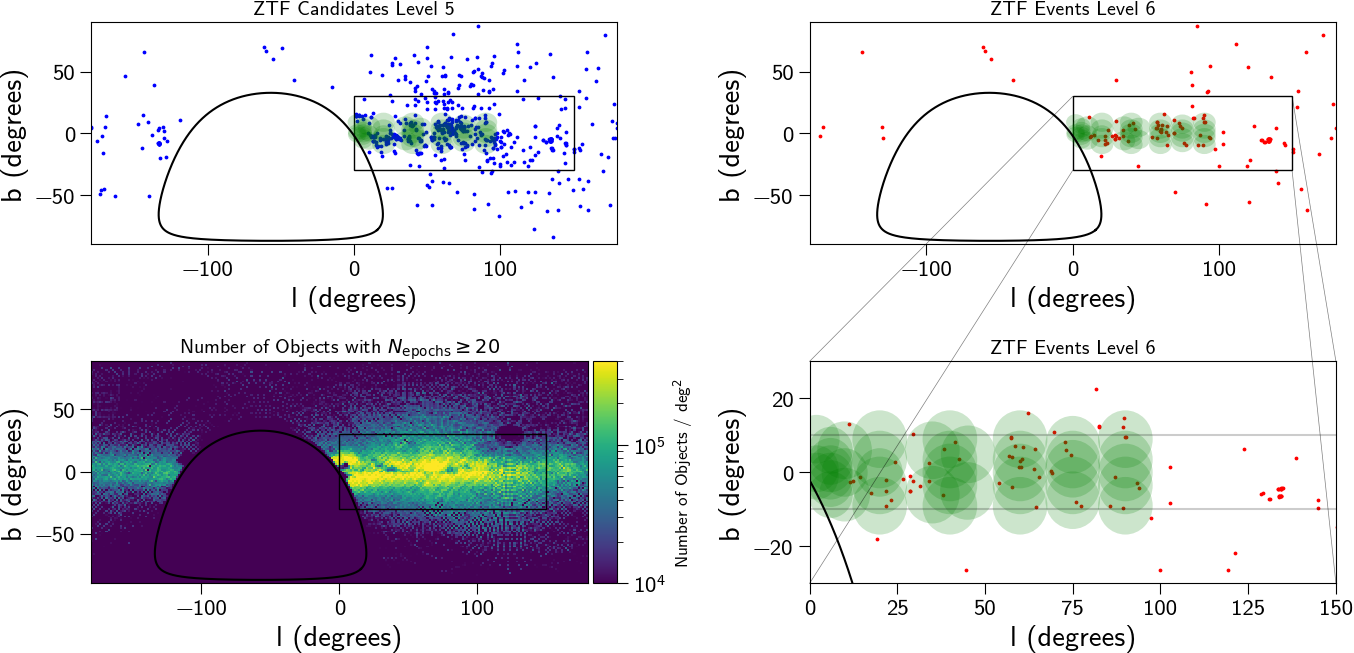
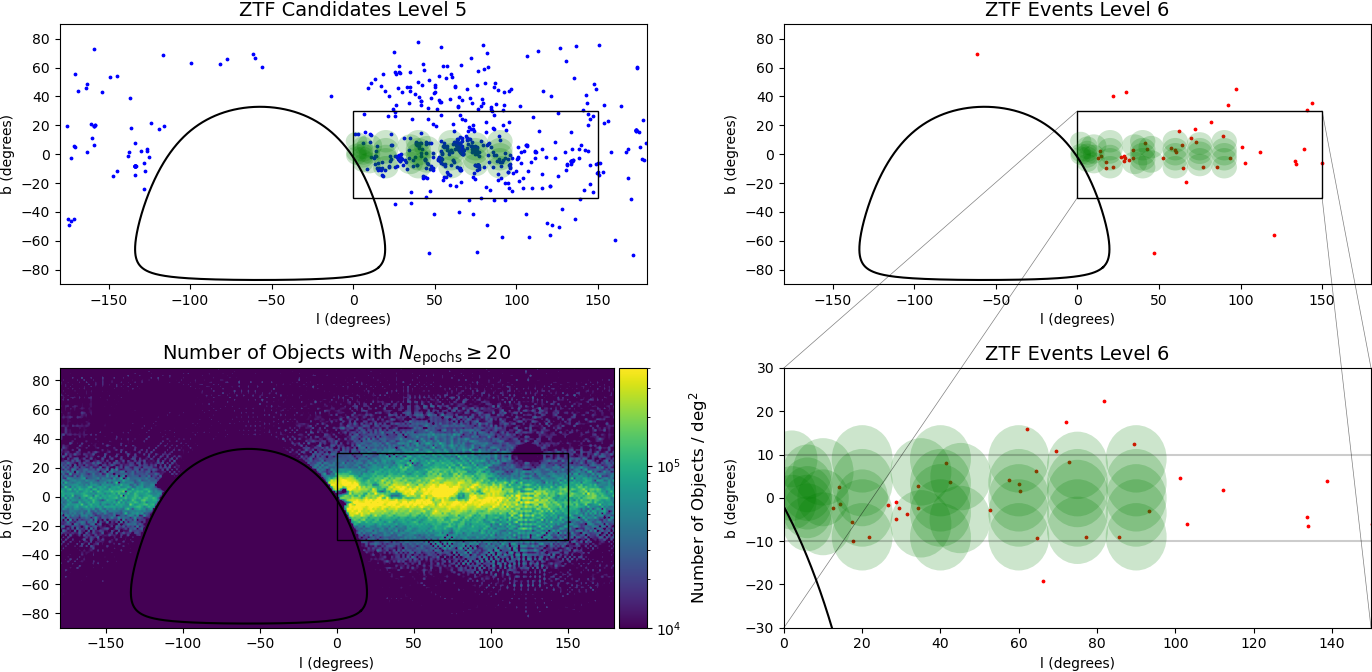
updates to perlmutter and catflag

diff --git a/puzle/cands.py b/puzle/cands.py
@@ -14,7 +14,7 @@ from microlens.jlu.model import PSPL_Phot_Par_Param1
 
 from puzle.stats import calculate_eta, average_xy_on_round_x
 from puzle.models import CandidateLevel2, CandidateLevel3, CandidateLevel4, Source
-from puzle.utils import return_figures_dir, return_DR5_dir
+from puzle.utils import return_figures_dir, return_DR5_dir, MJD_start, MJD_finish
 from puzle import db
 
 #import pdb
@@ -264,27 +264,32 @@ def return_cands_eta_resdiual_arrs():
     return eta_residual_minmax_arr, eta_residual_opt_arr
 
 
-def return_level3_cut_filters():
-    filter0 = CandidateLevel3.tE_best != 0
-    filter1 = CandidateLevel3.chi_squared_ulens_best / CandidateLevel3.num_days_best <= 4.805450553176206
-    filter2 = CandidateLevel3.delta_hmjd_outside_2tE_best >= 2 * CandidateLevel3.tE_best
-    filter3 = CandidateLevel3.chi_squared_flat_outside_2tE_best / CandidateLevel3.num_days_outside_2tE_best <= 3.327056268161699
-    filter4 = func.sqrt(func.pow(CandidateLevel3.piE_E_best, 2.) +
+def return_level3_cut_filters(ongoing_cut = False):
+    filter0 = CandidateLevel3.idx_best != -99 #at least one object with N_nights with catflat = 0 > 50
+    filter1 = CandidateLevel3.tE_best != 0 #successful 7-parameter fit
+    filter2 = CandidateLevel3.chi_squared_ulens_best / CandidateLevel3.num_days_best <= 4.805450553176206
+    filter3 = CandidateLevel3.delta_hmjd_outside_2tE_best >= 2 * CandidateLevel3.tE_best
+    filter4 = CandidateLevel3.chi_squared_flat_outside_2tE_best / CandidateLevel3.num_days_outside_2tE_best <= 3.327056268161699
+    filter5 = func.sqrt(func.pow(CandidateLevel3.piE_E_best, 2.) +
                         func.pow(CandidateLevel3.piE_N_best, 2.)) <= 1.4482240516735567
-    filter5 = CandidateLevel3.t0_best - CandidateLevel3.tE_best >= 58194.0
+    filter6 = CandidateLevel3.t0_best - CandidateLevel3.tE_best >= MJD_start
+    if ongoing_cut == True:
+        filter7 = CandidateLevel3.t0_best + CandidateLevel3.tE_best <= MJD_finish
+    else:
+        filter7 = filter6
     # filter6 = CandidateLevel3.tE_best <= 927.7536173683764
-    return filter0, filter1, filter2, filter3, filter4, filter5
+    return filter0, filter1, filter2, filter3, filter4, filter5, filter6, filter7
 
 
-def apply_level3_cuts_to_query(query):
-    filter0, filter1, filter2, filter3, filter4, filter5 = return_level3_cut_filters()
+def apply_level3_cuts_to_query(query, ongoing_cut = False):
+    filter0, filter1, filter2, filter3, filter4, filter5, filter6, filter7  = return_level3_cut_filters(ongoing_cut)
     query = query.filter(filter0, filter1, filter2,
-                         filter3, filter4, filter5)
+                         filter3, filter4, filter5, filter6, filter7)
     return query
 
 
-def print_level3_cuts():
-    filter0, filter1, filter2, filter3, filter4, filter5 = return_level3_cut_filters()
+def print_level3_cuts(ongoing_cut = False):
+    filter0, filter1, filter2, filter3, filter4, filter5, filter6, filter7 = return_level3_cut_filters(ongoing_cut)
     query = CandidateLevel3.query
     print('Filters up to 0', query.filter(filter0).count(), 'cands')
     print('Filters up to 1', query.filter(filter0, filter1).count(), 'cands')
@@ -292,7 +297,9 @@ def print_level3_cuts():
     print('Filters up to 3', query.filter(filter0, filter1, filter2, filter3).count(), 'cands')
     print('Filters up to 4', query.filter(filter0, filter1, filter2, filter3, filter4).count(), 'cands')
     print('Filters up to 5', query.filter(filter0, filter1, filter2, filter3, filter4, filter5).count(), 'cands')
-
+    print('Filters up to 6', query.filter(filter0, filter1, filter2, filter3, filter4, filter5, filter6).count(), 'cands')
+    if ongoing_cut == True:
+       print('Filters up to 7', query.filter(filter0, filter1, filter2, filter3, filter4, filter5, filter6, filter7).count(), 'cands') 
 
 def return_sigma_peaks(hmjd, mag, t0, tE, sigma_factor=3, tE_factor=2):
     # perform calculating on day averages
@@ -367,21 +374,70 @@ def load_source(source_id):
 
 
 def return_level4_cut_filters():
-    filter0 = CandidateLevel4.t0_pspl_gp != 0
-    filter1 = CandidateLevel4.t0_pspl_gp != 0
-    filter2 = CandidateLevel4.t0_pspl_gp != 0
-    return filter0, filter1, filter2
+    #filter0 = CandidateLevel4.t0_pspl_gp != 0
+    #filter1 = CandidateLevel4.t0_pspl_gp != 0
+    #filter2 = CandidateLevel4.t0_pspl_gp != 0
+    
+    cands = db.session.query(CandidateLevel4).outerjoin(CandidateLevel3,
+                                                        CandidateLevel4.id == CandidateLevel3.id). \
+        filter(#CandidateLevel3.t0_best + CandidateLevel3.tE_best < MJD_finish,
+               CandidateLevel4.pspl_gp_fit_finished == True,
+               CandidateLevel4.fit_type_pspl_gp != None).\
+        all()
+
+    keys = ['t0',
+            'u0_amp',
+            'u0_amp_err',
+            'tE',
+            'tE_err',
+            'b_sff',
+            'b_sff_err',
+            'piE_E',
+            'piE_E_err',
+            'piE_N',
+            'piE_N_err',
+            'piE',
+            'piE_err',
+            'rchi2',
+            'delta_hmjd_outside']
+    keys_err = [k for k in keys if f'{k}_err' in keys]
+
+    data = {}
+    for key in keys:
+        data[key] = np.array([getattr(c, f'{key}_pspl_gp') for c in cands])
+    data['cand_id'] = np.array([c.id for c in cands])
+
+    error_frac = {}
+    for key in keys_err:
+        key_err = f'{key}_err'
+        error_frac[key] = data[key_err] / data[key]
+    
+    cond1 = error_frac['tE'] <= 0.2
+    cond2 = np.abs(data['u0_amp']) <= 1.0
+    cond3 = data['b_sff'] <= 1.2
+    cond4 = data['rchi2'] <= 3
+    cond5 = data['delta_hmjd_outside'] / data['tE'] >= 4
+    cond6 = data['t0'] - data['tE'] >= MJD_start
+    cond7 = data['t0'] + data['tE'] <= MJD_finish
+
+
+    return cond1, cond2, cond3, cond4, cond5, cond6, cond7
 
 
 def apply_level4_cuts_to_query(query):
-    filter0, filter1, filter2 = return_level4_cut_filters()
-    query = query.filter(filter0, filter1, filter2)
+    cond1, cond2, cond3, cond4, cond5, cond6, cond7 = return_level4_cut_filters()
+    query = query.filter(cond1, cond2, cond3, cond4, cond5, cond6, cond7)
     return query
 
 
 def print_level4_cuts():
-    filter0, filter1, filter2 = return_level4_cut_filters()
-    query = CandidateLevel4.query
-    print('Filters up to 0', query.filter(filter0).count(), 'cands')
-    print('Filters up to 1', query.filter(filter0, filter1).count(), 'cands')
-    print('Filters up to 2', query.filter(filter0, filter1, filter2).count(), 'cands')
+    cond1, cond2, cond3, cond4, cond5, cond6, cond7 = return_level4_cut_filters()
+    #query = CandidateLevel4.query
+    print('No filters', len(cond1), 'cands')
+    print('Filters up to 1', np.sum(cond1), 'cands')
+    print('Filters up to 2', np.sum(cond1 * cond2), 'cands')
+    print('Filters up to 3', np.sum(cond1 * cond2 * cond3), 'cands')
+    print('Filters up to 4', np.sum(cond1 * cond2 * cond3 * cond4), 'cands')
+    print('Filters up to 5', np.sum(cond1 * cond2 * cond3 * cond4 * cond5), 'cands')
+    print('Filters up to 6', np.sum(cond1 * cond2 * cond3 * cond4 * cond5 * cond6), 'cands')
+    print('Filters up to 7', np.sum(cond1 * cond2 * cond3 * cond4 * cond5 * cond6 * cond7), 'cands')

diff --git a/bin/pipeline/fit_level4_candidates_to_pspl_gp.py b/bin/pipeline/fit_level4_candidates_to_pspl_gp.py
@@ -84,7 +84,8 @@ def fit_level4_cand_to_pspl_gp(cand_id, node_name=None):
                                       n_live_points=n_live_points,
                                       evidence_tolerance=0.5,
                                       sampling_efficiency=0.8,
-                                      outputfiles_basename=outputfiles_basename)
+                                      outputfiles_basename=outputfiles_basename,
+                                      dump_callback=None)
 
     # set priors
     fitter.priors['t0'] = model_fitter.make_truncnorm_gen_with_bounds(fitter_params['t0'], fitter_params['tE']*.5,
@@ -137,6 +138,7 @@ def fit_level4_cands_to_pspl_gp(single_job=False):
     rank = comm.Get_rank()
 
     if len(sys.argv) > 1:
+        #logger.info(f'TEST {sys.argv}')
         slurm_job_id = sys.argv[1]
         node_name = sys.argv[2]
     else:
@@ -146,6 +148,7 @@ def fit_level4_cands_to_pspl_gp(single_job=False):
     while True:
 
         if rank == 0:
+            #logger.info(f'HIIII {node_name}')
             cand_id = fetch_cand(slurm_job_id=slurm_job_id,
                                  node_name=node_name)
             logger.info(f'{cand_id} : Starting fit on {node_name}')
@@ -163,4 +166,5 @@ def fit_level4_cands_to_pspl_gp(single_job=False):
 
 if __name__ == '__main__':
     logging.getLogger('ulensdb').setLevel(logging.WARNING)
+    #logger.info(f'{sys.argv[2]}, HELLO')
     fit_level4_cands_to_pspl_gp()

diff --git a/puzle/utils.py b/puzle/utils.py
@@ -79,7 +79,7 @@ def fetch_job_enddate():
     if job_id is None:
         return None
 
-    cmd = 'squeue -u mmedford -j %s --format="%%e" --noheader' % job_id
+    cmd = 'squeue -u nsabrams -j %s --format="%%e" --noheader' % job_id
     stdout, _ = execute(cmd)
     enddate_str = stdout.decode().replace('\n', '').replace('"','')
     enddate = datetime.strptime(enddate_str, '%Y-%m-%dT%H:%M:%S')
@@ -257,7 +257,7 @@ def sortsplit(array, size):
             for j in range(size)]
 
 
-def parse_nersc_nodelist():
+def parse_nersc_nodelist(perlmutter = False):
     nodelist_var = os.getenv('SLURM_NODELIST')
     if '[' not in nodelist_var:
         nodelist = [nodelist_var]
@@ -269,7 +269,10 @@ def parse_nersc_nodelist():
             if '-' in span:
                 range_low, range_high = span.split('-')
                 for i in range(int(range_low), int(range_high)+1):
-                    nodelist.append(f'{base}{i}')
+                    if perlmutter == True:
+                        nodelist.append(f'{base}{i:06d}')
+                    else:
+                        nodelist.append(f'{base}{i}')
             else:
                 nodelist.append(f'{base}{span}')
 

diff --git a/bin/analysis/generate_ulens_sample.py b/bin/analysis/generate_ulens_sample.py
@@ -30,7 +30,8 @@ popsycle_base_folder = '/global/cfs/cdirs/uLens/PopSyCLE_runs/PopSyCLE_runs_v3_r
 def gather_PopSyCLE_refined_events():
     from astropy.table import Table, vstack
 
-    folders = glob.glob('PopSyCLE_runs_v3/l*')
+    #folders = glob.glob('PopSyCLE_runs_v3/l*')
+    folders = glob.glob(f'{popsycle_base_folder}/l*')
     folders.sort()
     N_folders = len(folders)
     N_samples = 0
@@ -40,9 +41,8 @@ def gather_PopSyCLE_refined_events():
     for i, folder in enumerate(folders):
         print(f'Processing {folder} ({i}/{N_folders})')
         lb = os.path.basename(folder)
-        fis = glob.glob(f'{folder}/*_5yrs_refined_events_ztf_r_Damineli16.fits')
+        fis = folder#glob.glob(f'{folder}/*_5yrs_refined_events_ztf_r_Damineli16.fits')
         print('-- %i files' % len(fis))
-
         tables = []
         for fi in fis:
             t = Table.read(fi, format='fits')
@@ -841,5 +841,5 @@ def test_lightcurve_stats(N_samples=1000):
 
 if __name__ == '__main__':
     # generate_random_lightcurves()
-    # consolidate_lightcurves()
+    #  consolidate_lightcurves()
     calculate_stats_on_lightcurves()

diff --git a/bin/pipeline/upload_level4_candidates_level5_cut.py b/bin/pipeline/upload_level4_candidates_level5_cut.py
@@ -13,7 +13,7 @@ from puzle import db
 def upload_level4_candidates_level5_cut():
     cands = db.session.query(CandidateLevel4).outerjoin(CandidateLevel3,
                                                         CandidateLevel4.id == CandidateLevel3.id). \
-        filter(CandidateLevel3.t0_best + CandidateLevel3.tE_best > MJD_finish,
+        filter(#CandidateLevel3.t0_best + CandidateLevel3.tE_best < MJD_finish,
                CandidateLevel4.pspl_gp_fit_finished == True,
                CandidateLevel4.fit_type_pspl_gp != None).\
         all()

diff --git a/puzle/ulensdb.py b/puzle/ulensdb.py
@@ -46,7 +46,7 @@ def load_db_ids():
 
     if identify_is_nersc():
         # remove rows that are not currently running
-        stdout, _ = execute('squeue --noheader -u mmedford --format="%i')
+        stdout, _ = execute('squeue --noheader -u nsabrams --format="%i')
         job_ids = set([s.replace('"', '') for s in stdout.decode().split('\n')])
         db_ids = set([d for d in db_ids if d.split('.')[0] in job_ids])
 

diff --git a/bin/paper_figures/plot_level5_cands.py b/bin/paper_figures/plot_level5_cands.py
@@ -1001,8 +1001,8 @@ def generate_all_figures():
     plot_cands_on_sky()
     plot_cands_tE_overlapping_popsycle()
     plot_cands_tE_piE_overlapping_popsycle()
-    plot_lightcurve_examples()
-    plot_level6_lightcurve_examples()
+    #plot_lightcurve_examples()
+    #plot_level6_lightcurve_examples()
     plot_cands_magnitude()
     plot_cands_blend_fraction()
 

diff --git a/puzle/pspl_gp_fit.py b/puzle/pspl_gp_fit.py
@@ -420,7 +420,7 @@ def separate_modes(outputfiles_basename):
     empty_lines = []
     with open(mode_file, 'r') as orig_file:
         for num, line in enumerate(orig_file, start=0):
-            if line == ' \n':
+            if line == ' \n' or line == '\n':
                 empty_lines.append(num)
 
     # Error checking
